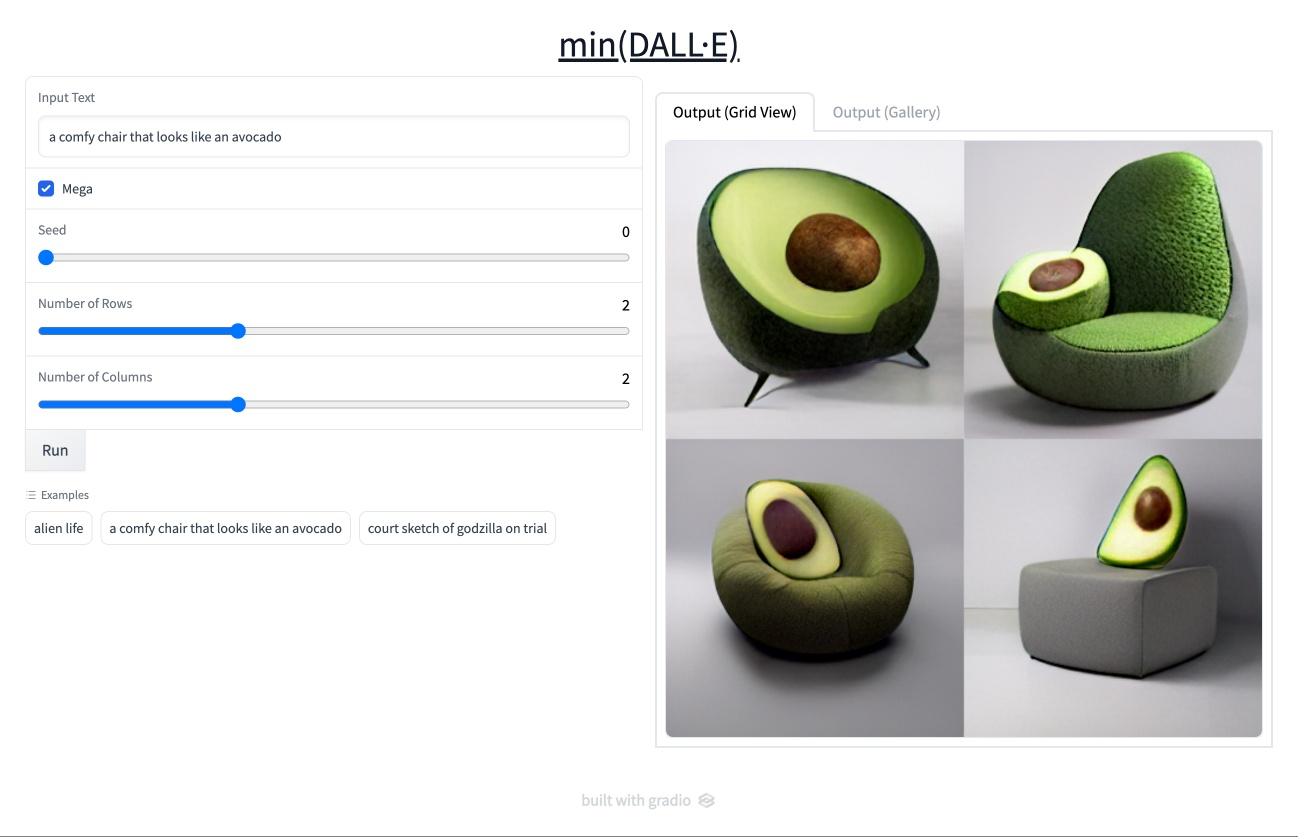
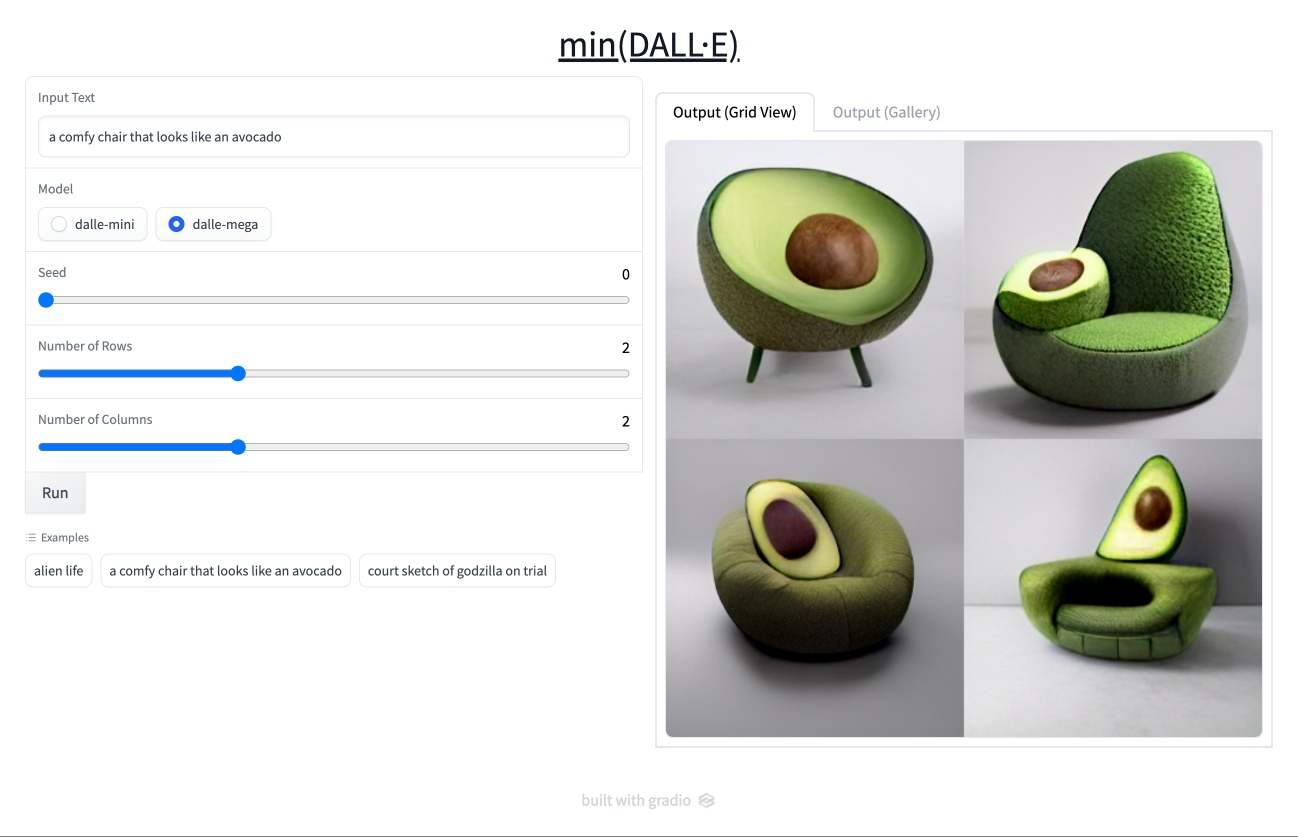
Update

diff --git a/model.py b/model.py
@@ -1,3 +1,4 @@
+import os
 import pathlib
 import sys
 
@@ -18,22 +19,23 @@ from min_dalle.text_tokenizer import TextTokenizer
 
 
 class Model:
-    def __init__(self, is_mega: bool = True):
-        self.is_mega = is_mega
+    def __init__(self, model_name: str = 'dalle-mini'):
+        self.model_name = model_name
         config, tokenizer, encoder, decoder, params_dalle_bart = self.load_model(
-            is_mega=True)
+            model_name=model_name)
         self.config = config
         self.tokenizer = tokenizer
         self.encoder = encoder
         self.decoder = decoder
         self.params_dalle_bart = params_dalle_bart
 
-    def set_model(self, is_mega: bool) -> None:
-        if is_mega == self.is_mega:
+    def set_model(self, model_name: str) -> None:
+        assert model_name in ['dalle-mini', 'dalle-mega']
+        if model_name == self.model_name:
             return
-        self.is_mega = is_mega
+        self.model_name = model_name
         config, tokenizer, encoder, decoder, params_dalle_bart = self.load_model(
-            is_mega=is_mega)
+            model_name=model_name)
         self.config = config
         self.tokenizer = tokenizer
         self.encoder = encoder
@@ -41,11 +43,11 @@ class Model:
         self.params_dalle_bart = params_dalle_bart
 
     def load_model(
-        self, is_mega: bool
+        self, model_name: str
     ) -> tuple[dict, TextTokenizer, DalleBartEncoderFlax, DalleBartDecoderFlax,
                dict]:
-        model_name = 'mega' if is_mega else 'mini'
-        model_path = f'./pretrained/dalle_bart_{model_name}'
+        model_dir = os.getenv('DALLE_MODEL_DIR', 'pretrained')
+        model_path = f'{model_dir}/{model_name}'
         config, vocab, merges = load_dalle_bart_metadata(model_path)
         params_dalle_bart = load_dalle_bart_flax_params(model_path)
 
@@ -95,13 +97,32 @@ class Model:
         image_tokens[...] = self.decode_flax(text_tokens, encoder_state, seed)
         return detokenize_torch(image_tokens)
 
-    def generate_images(self, text: str, seeds: list[int],
-                        is_mega: bool) -> list[np.ndarray]:
-        self.set_model(is_mega)
-
+    def generate_images(self, text: str, seeds: list[int]) -> list[np.ndarray]:
         text_tokens = self.tokenize_text(text)
         encoder_state = self.encode_flax(text_tokens)
         return [
             self.generate_image(text_tokens, encoder_state, seed)
             for seed in seeds
         ]
+
+
+def make_grid(images: list[np.ndarray], nrows: int, ncols: int) -> np.ndarray:
+    h, w = images[0].shape[:2]
+    grid = np.zeros((h * nrows, w * ncols, 3), dtype=np.uint8)
+    for i in range(nrows):
+        for j in range(ncols):
+            index = ncols * i + j
+            if index >= len(images):
+                break
+            grid[h * i:h * (i + 1), w * j:w * (j + 1)] = images[index]
+    return grid
+
+
+class AppModel(Model):
+    def run(self, text: str, model_name: str, seed: int, nrows: int,
+            ncols: int) -> tuple[np.ndarray, list[np.ndarray]]:
+        self.set_model(model_name)
+        seeds = list(range(seed, seed + nrows * ncols))
+        res = super().generate_images(text, seeds)
+        grid = make_grid(res, nrows, ncols)
+        return grid, res

diff --git a/app.py b/app.py
@@ -3,31 +3,9 @@
 import gradio as gr
 import numpy as np
 
-from model import Model
+from model import AppModel
 
 DESCRIPTION = '# <a href="https://github.com/kuprel/min-dalle">min(DALL·E)</a>'
-
-model = Model()
-
-
-def make_grid(images: list[np.ndarray], nrows: int, ncols: int) -> np.ndarray:
-    h, w = images[0].shape[:2]
-    grid = np.zeros((h * nrows, w * ncols, 3), dtype=np.uint8)
-    for i in range(nrows):
-        for j in range(ncols):
-            index = ncols * i + j
-            if index >= len(images):
-                break
-            grid[h * i:h * (i + 1), w * j:w * (j + 1)] = images[index]
-    return grid
-
-
-def generate(text: str, is_mega: bool, seed: int, nrows: int,
-             ncols: int) -> tuple[np.ndarray, list[np.ndarray]]:
-    seeds = [seed + i for i in range(nrows * ncols)]
-    res = model.generate_images(text, seeds, is_mega)
-    grid = make_grid(res, nrows, ncols)
-    return grid, res
 
 
 def set_example_text(example: list) -> dict:
@@ -35,6 +13,7 @@ def set_example_text(example: list) -> dict:
 
 
 def main():
+    model = AppModel()
     with gr.Blocks(css='style.css') as demo:
         gr.Markdown(DESCRIPTION)
 
@@ -42,7 +21,10 @@ def main():
             with gr.Column():
                 with gr.Group():
                     text = gr.Textbox(label='Input Text')
-                    is_mega = gr.Checkbox(label='Mega', value=True)
+                    model_name = gr.Radio(choices=['dalle-mini', 'dalle-mega'],
+                                          value='dalle-mini',
+                                          type='value',
+                                          label='Model')
                     seed = gr.Slider(0, 100000, value=0, step=1, label='Seed')
                     nrows = gr.Slider(1,
                                       4,
@@ -67,10 +49,10 @@ def main():
                     with gr.TabItem('Output (Gallery)'):
                         result_gallery = gr.Gallery(show_label=False)
 
-        run_button.click(fn=generate,
+        run_button.click(fn=model.run,
                          inputs=[
                              text,
-                             is_mega,
+                             model_name,
                              seed,
                              nrows,
                              ncols,

diff --git a/README.md b/README.md
@@ -10,10 +10,16 @@ This is an unofficial demo app for [min(DALL·E)](https://github.com/kuprel/min-
 git clone --recursive https://github.com/hysts/min-dalle_demo
 cd min-dalle_demo
 docker compose build
+
+cd min-dalle
+patch -p1 < ../patch
 ```
 
 ## Download pretrained models
-Follow [the instructions](https://github.com/kuprel/min-dalle#setup) of min(DALL·E) repo.
+```bash
+sudo apt install git-lfs
+bash download_models.sh
+```
 
 ## Run
 ```baash
